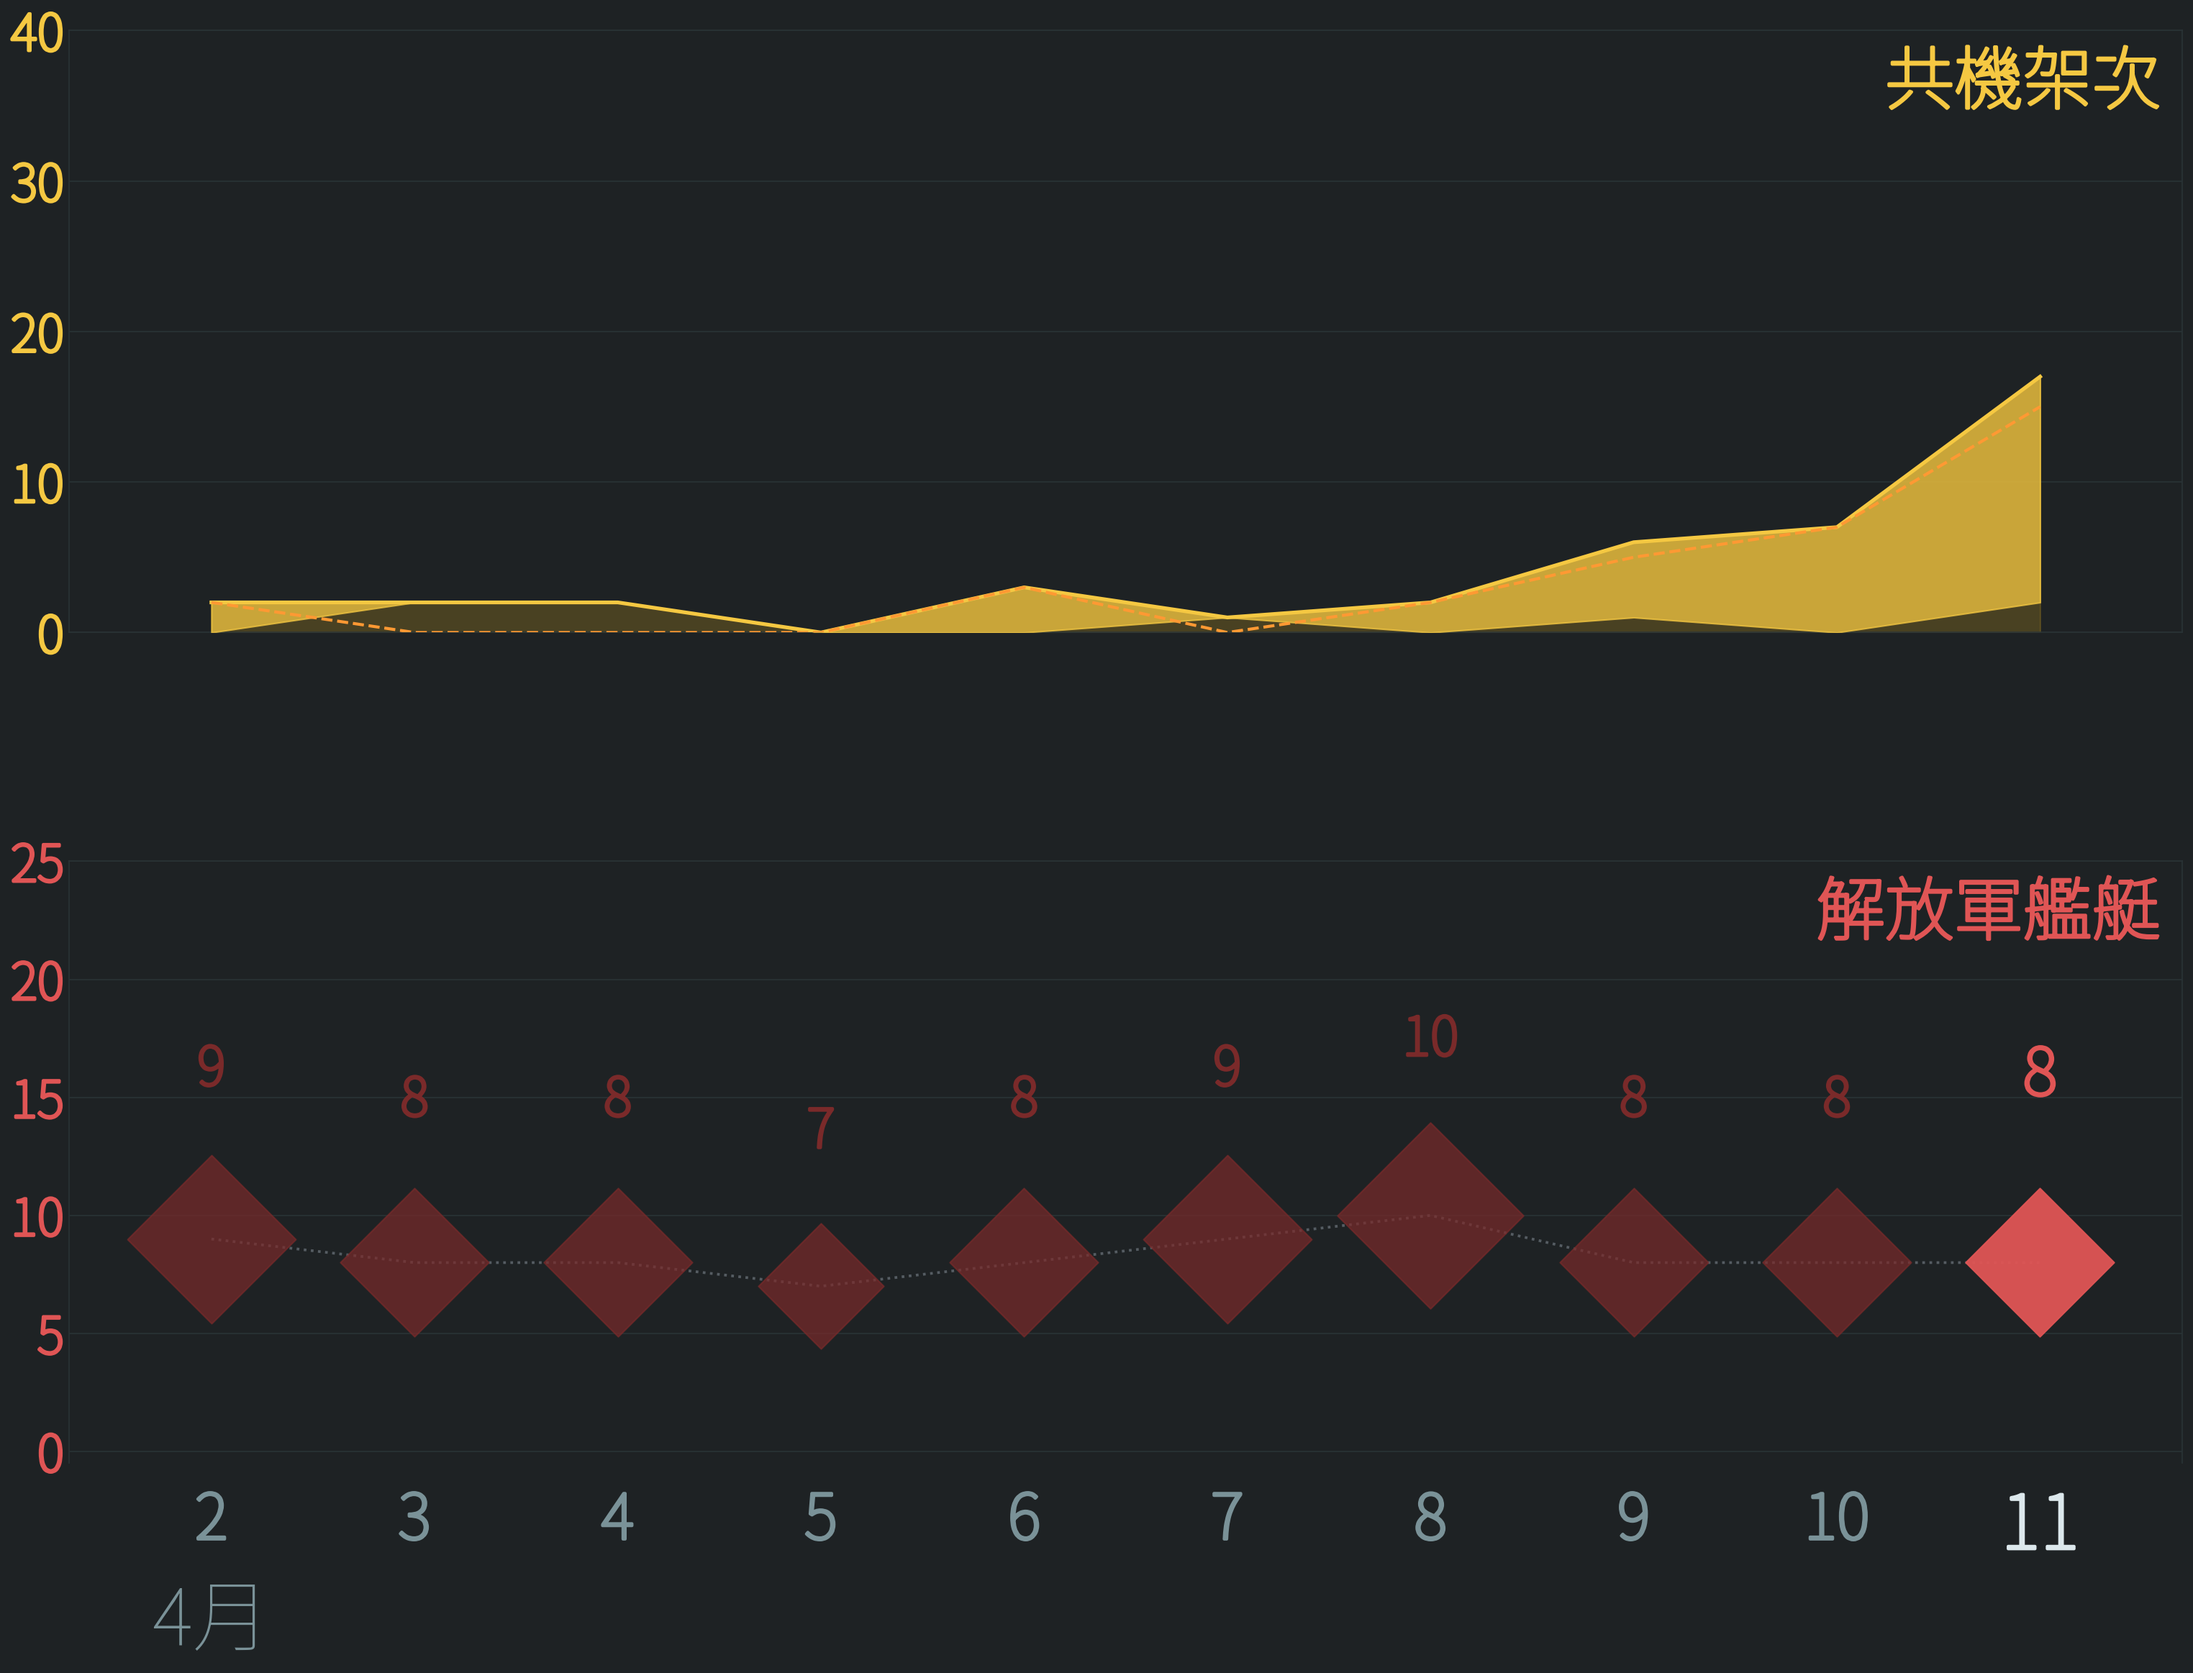
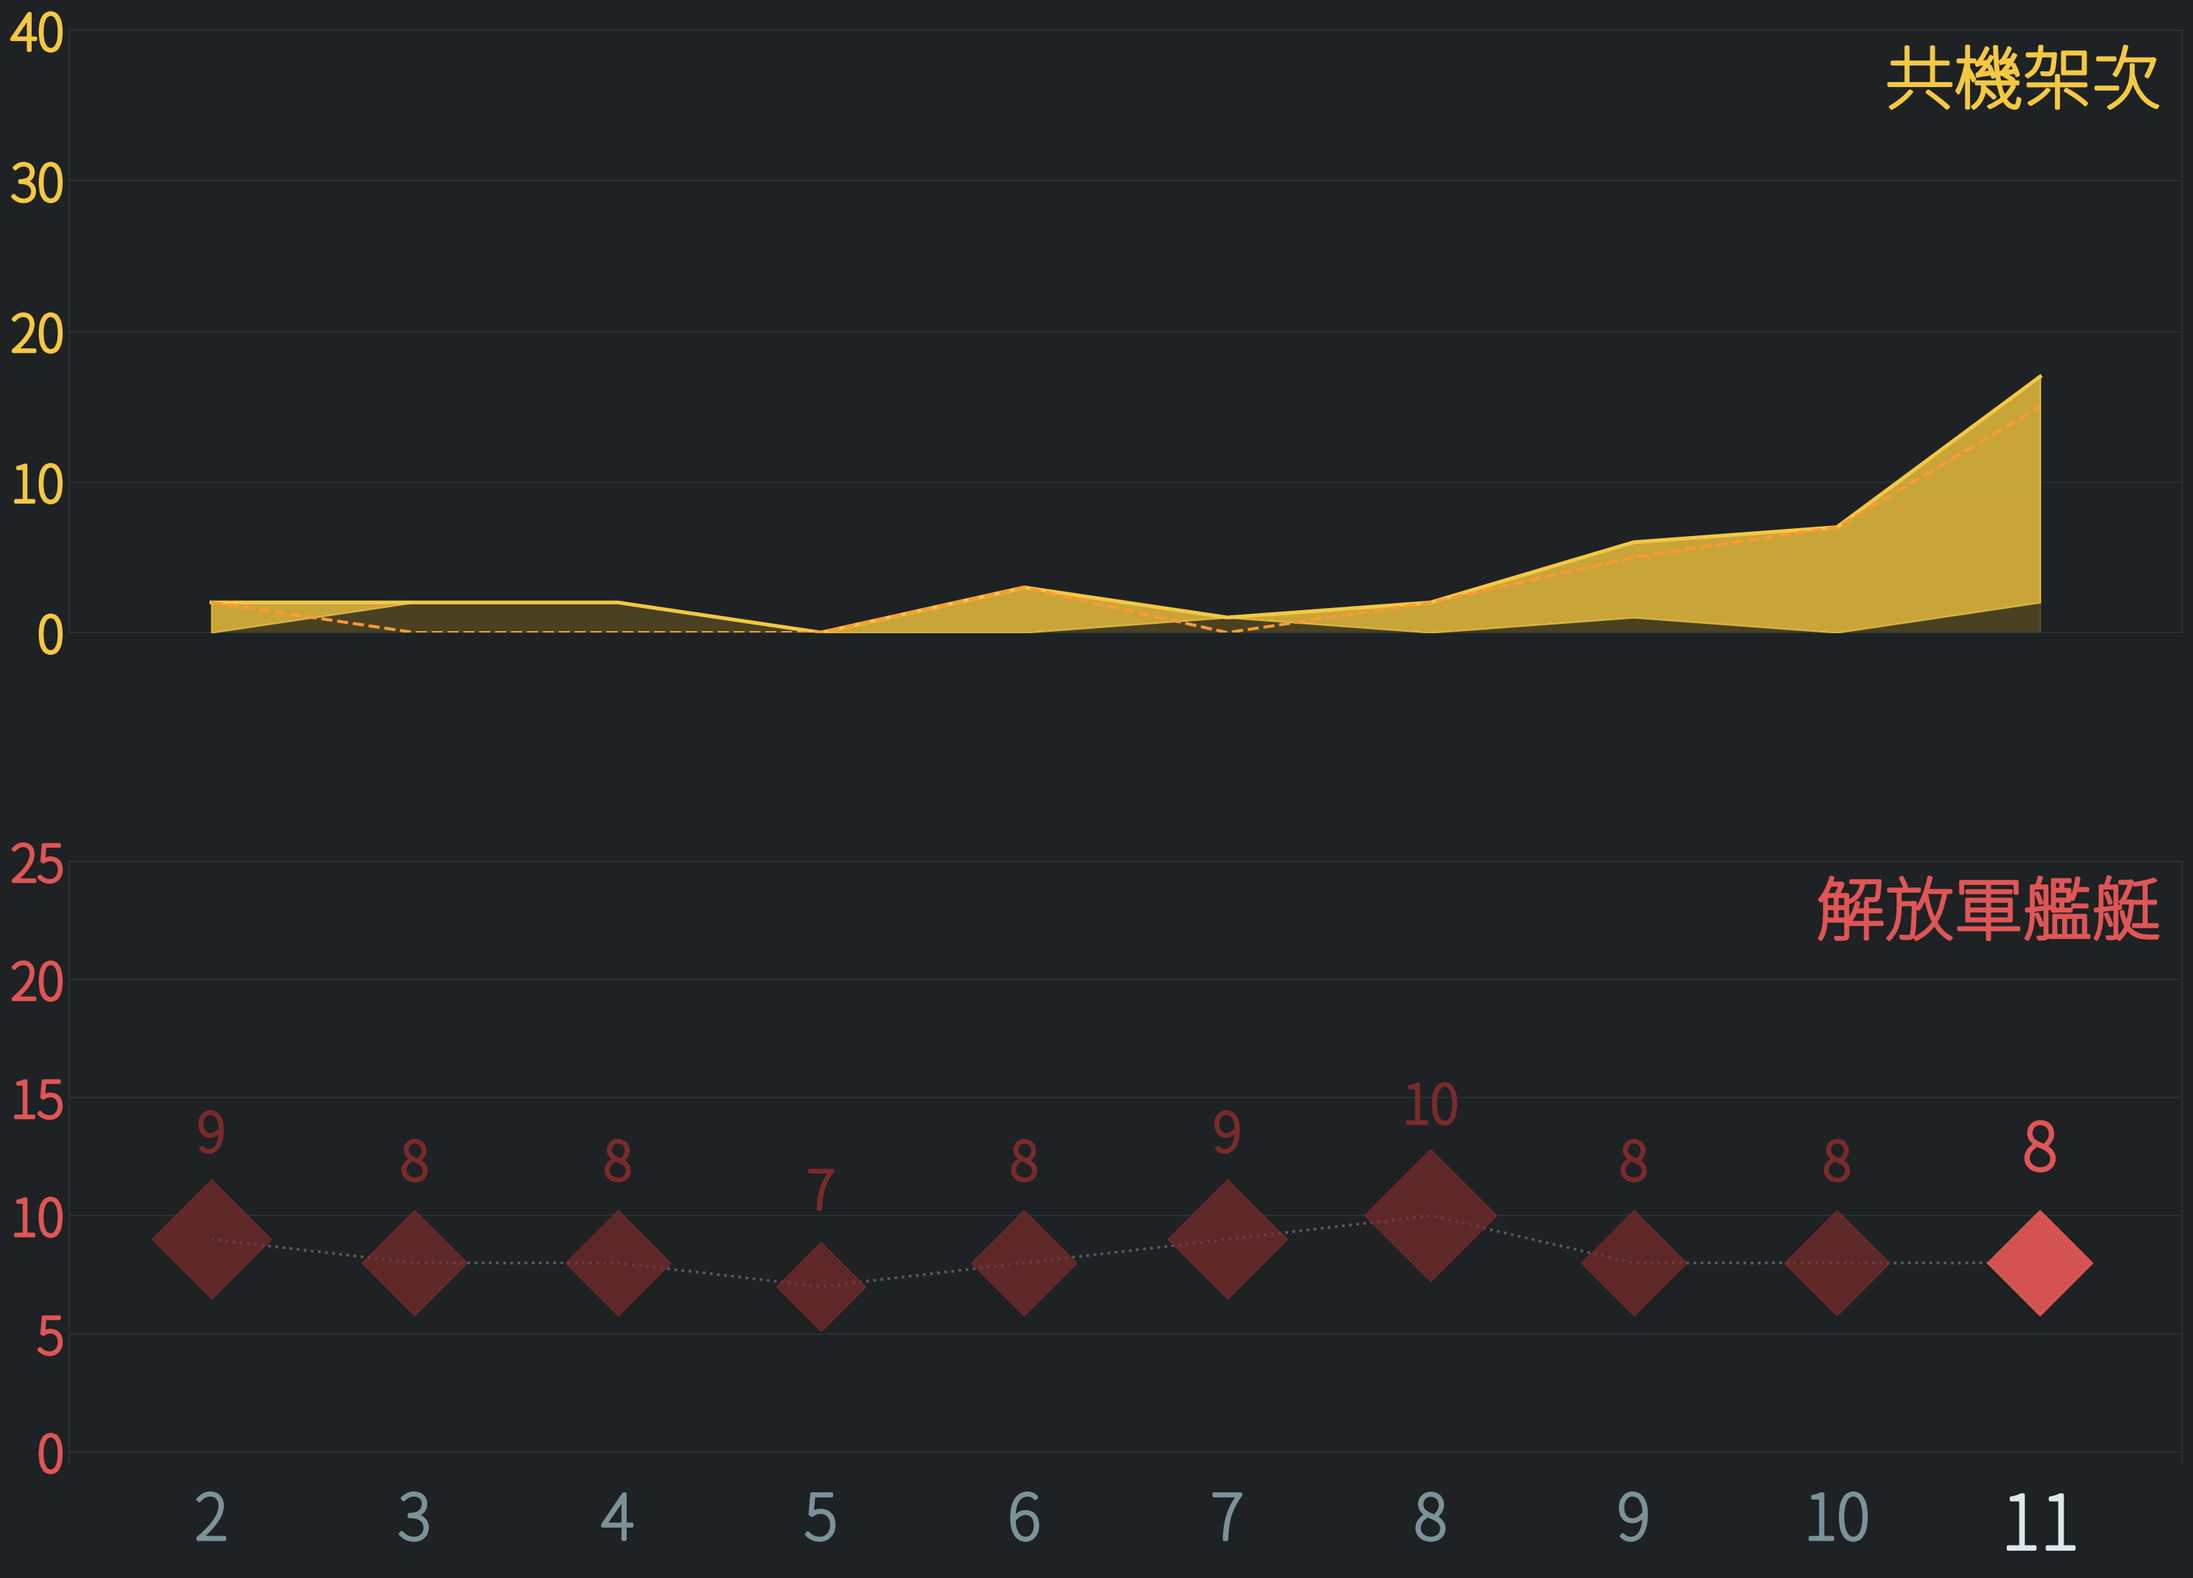
fix: 艦艇圖示縮小、數字靠近圖示、移除月份標示

diff --git a/scripts/chart_daily.py b/scripts/chart_daily.py
@@ -260,7 +260,7 @@ def make_split_panel_chart(df, today_date=None, obs_text=None, out_path=None):
     for i, row in df_plot.iterrows():
         is_today = (row['date'] == today_date)
         v     = int(sh_vals[i])
-        sz    = dot_size_ships(v, sh_min, sh_max) * 1.4
+        sz    = dot_size_ships(v, sh_min, sh_max) * 0.7
         color = SH_BRIGHT if is_today else SH_DIM
         alpha = 0.95 if is_today else 0.7
         ax_sh.scatter(i, v, c=color, s=sz, alpha=alpha, marker='D',
@@ -269,7 +269,7 @@ def make_split_panel_chart(df, today_date=None, obs_text=None, out_path=None):
         fs = 44 if is_today else 36
         fc = SH_BRIGHT if is_today else SH_DIM
         r_d = scatter_radius_y(ax_sh, fig, sz)
-        gap = label_gap_y(ax_sh, fig, fs) * 1.5
+        gap = label_gap_y(ax_sh, fig, fs) * 0.6
         _lbl = ax_sh.text(i, v + r_d + gap, str(v),
                           ha='center', va='bottom', color=fc,
                           fontsize=fs, fontfamily=FONT, clip_on=False)
@@ -294,14 +294,6 @@ def make_split_panel_chart(df, today_date=None, obs_text=None, out_path=None):
         t1 = fig.text(xf, yf - 0.022, date_labels[i],
                       ha='center', va='top', color=fc, fontsize=fs, fontfamily=FONT)
         bold_stroke(t1)
-
-    # 若同一月份，於左下顯示月份標示
-    if _same_month:
-        mo = pd.to_datetime(today_date).month
-        disp0 = ax_sh.transData.transform((0, 0))
-        xf0, yf0 = fig.transFigure.inverted().transform(disp0)
-        fig.text(xf0, yf0 - 0.075, f'{mo}月',
-                 ha='center', va='top', color=TXTSUB, fontsize=52, fontfamily=FONT)
 
     if out_path is None:
         out_path = OUTPUT_DIR / f"split_{today_date}.png"
